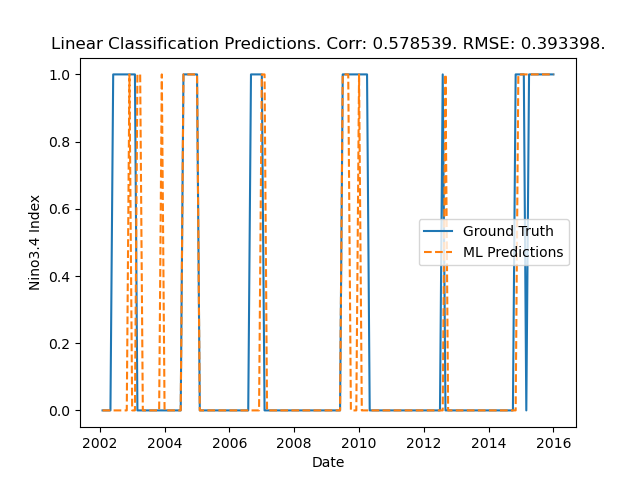
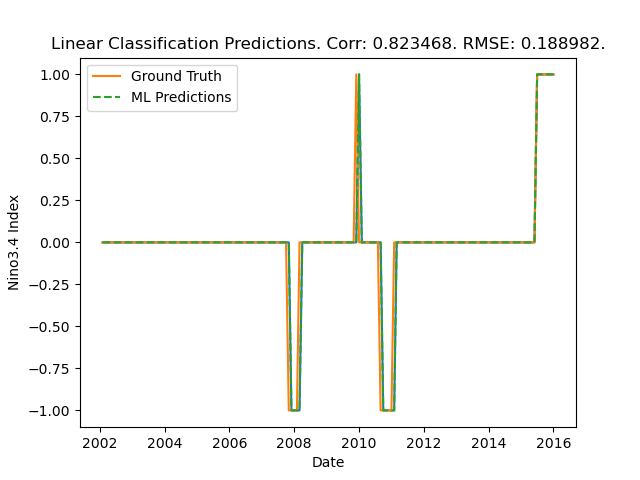
allow testing to output predictions only without comparison without ground truth.

diff --git a/test.py b/test.py
@@ -14,38 +14,87 @@ from sklearn import linear_model
 import pandas as pd
 import numpy as np
 
+def proper_mon(m):
+    if m<10:
+        mon = '0'+str(int(m))
+    else:
+        mon = str(int(m))
+    return mon
 
+def get_date_str(start,end,lead):
+    start = start.split('-')
+    end = end.split('-')
+    start_y,start_m = int(start[0]), int(start[1])
+    start_m1= int(start_m)
+    end_y, end_m = int(end[0]), int(end[1])
+    months = int((end_y - start_y)*12 + (end_m - start_m))
+    dates = []
+    start_m += lead
+    if start_m>12:
+        start_y += int(start_m/12)
+        start_m = start_m%12
+    
+    dates.append(str(start_y)+'-'+proper_mon(start_m)+'-01')
+    for i in range(start_m1+lead+1,start_m1+months+lead+1):
+        start_m += 1
+        if start_m>12:
+            start_y += 1
+            start_m -= 12
+        
+        dates.append(str(start_y)+'-'+proper_mon(start_m)+'-01')
+    return dates
 
+def plot_and_write(dates,pred,name,lead):
+    dates1 = []
+    for i in dates:
+        dates1.append(np.datetime64(i))
+    fname = './results/'+name+'_Nino34index_prediction_leadtime'+str(lead)+'.txt'
+    f = open(fname,'w')
+    for i,j in zip(dates,pred):
+        f.write(str(i)+'   '+str(j)+'\n')
+    f.close()
+    series = pd.Series(pred, index=pd.to_datetime(dates1))
+    plt.plot(series)
+    plt.xlabel('Datetime')
+    plt.ylabel('Nino 3.4 Index')
+    plt.title('Predicted Nino3.4 Index with leadtime = '+str(lead))
+    if not os.path.isdir("./results/"):
+        os.mkdir('./results')
+    plt.savefig('./results/'+name+'_forecast.png')
+    
 
 
 if __name__=='__main__':
-    
     opt=Test_options().parse()
     opt.startdate = strTodate(opt.startdate)
     opt.enddate = strTodate(opt.enddate)
     opt.test_start = strTodate(opt.test_start)
     opt.test_end = strTodate(opt.test_end)
+    dates = get_date_str(opt.test_start, opt.test_end , opt.leadtime)
     if '.' in opt.name:
         fname = opt.name[:opt.name.index('.')]
     else:
         fname = opt.name
     if opt.model=='cnn':
+        dates = dates[1:]
         test_predictors, test_predictands = assemble_predictors_predictands(opt)
         test_dataset = ENSODataset(test_predictors, test_predictands)
         testloader = DataLoader(test_dataset, batch_size=opt.batch_size)
         pred_CNN=cnn_predict('./checkpoints/'+opt.name,testloader)
+        
         if opt.classification:
             pred_CNN = classify(pred_CNN,threshold= opt.threshold)
             test_predictands=classify_pd(test_predictands,threshold= opt.threshold)
             experiment_name = 'CNN Classification'
         else:
             experiment_name = 'CNN Regression'
-        corr, _ = pearsonr(test_predictands, pred_CNN)
-        rmse = mean_squared_error(test_predictands, pred_CNN) ** 0.5
-        
-        
-        plot_nino_time_series(test_predictands, pred_CNN, '{} Predictions. Corr: {:3f}. RMSE: {:3f}.'.format(experiment_name,
+        plot_and_write(dates,pred_CNN,fname,opt.leadtime)
+        if opt.compare_ground_truth:
+            corr, _ = pearsonr(test_predictands, pred_CNN)
+            rmse = mean_squared_error(test_predictands, pred_CNN) ** 0.5
+            plot_nino_time_series(test_predictands, pred_CNN, '{} Predictions. Corr: {:3f}. RMSE: {:3f}.'.format(experiment_name,
                                                                       corr, rmse),'./results/'+fname)
+        
     elif opt.model == 'linear_regression':
         x_train,y_train=assemble_basic_predictors_predictands(opt,train=True)
         opt.startdate=opt.test_start
@@ -60,9 +109,11 @@ if __name__=='__main__':
             experiment_name = 'Linear Classification'
         else:
             experiment_name = 'Linear Regression'
-        corr, _ = pearsonr(y_test, pred_reg)
-        rmse = mean_squared_error(y_test, pred_reg) ** 0.5
-        plot_nino_time_series(y_test, pred_reg, '{} Predictions. Corr: {:3f}. RMSE: {:3f}.'.format(experiment_name,
+        plot_and_write(dates,pred_reg,fname,opt.leadtime)
+        if opt.compare_ground_truth:
+            corr, _ = pearsonr(y_test, pred_reg)
+            rmse = mean_squared_error(y_test, pred_reg) ** 0.5
+            plot_nino_time_series(y_test, pred_reg, '{} Predictions. Corr: {:3f}. RMSE: {:3f}.'.format(experiment_name,
                                                                       corr, rmse),'./results/'+fname)
         
         

diff --git a/options/reforecast_options.py b/options/reforecast_options.py
@@ -14,12 +14,12 @@ class Reforecast_options():
         parser.add_argument('--num_input_time_steps', type=int, default=1, help='the number of input time steps in the predictor')
         parser.add_argument('--startdate',required=True,help='start date of data as yyyy-mm-dd')
         parser.add_argument('--enddate',required=True,help='end date of data as yyyy-mm-dd')
-        parser.add_argument('--pca',type=bool,default=False,help='use pca')
+        parser.add_argument('--pca',action='store_true',help='use pca')
         parser.add_argument('--n_components',type=int, default=32, help='the number of components to use for PCA')
         parser.add_argument('--dataset', default='observations', help="observations | CNRM | MPI")
         parser.add_argument('--data_format',default='spatial', help = "'spatial' or 'flatten'. 'spatial' preserves the lat/lon dimensions and returns an array of shape (num_samples, num_input_time_steps, lat, lon).  'flatten' returns an array of shape (num_samples, num_input_time_steps*lat*lon)") 
         parser.add_argument('--batch_size',type=int, default=10, help='training batch size')
-        parser.add_argument('--classification', type=bool, default=False, help='use classification')
+        parser.add_argument('--classification', action='store_true', help='use classification')
         parser.add_argument('--threshold', type=float, default=1.5, help='threshold of Nino 3.4 index as El Nino')
         parser.add_argument('--test_start',default='',help='test start date only for linear regression')
         parser.add_argument('--test_end',default='',help='test end date only for linear regression')
@@ -29,7 +29,7 @@ class Reforecast_options():
         parser.add_argument('--ref', type=float, default = 299.0487,help='reference global sst in K')
         parser.add_argument('--variable_name', default='', help='variable name of model data')
         parser.add_argument('--variable_name_ref', default='unknown_local_param_34_128', help='variable name of reforecast data')
-        
+        parser.add_argument('--compare_ground_truth', action='store_true', help='whether compare the prediction with ground truth.')
         
         
         self.parser=parser

diff --git a/options/test_options.py b/options/test_options.py
@@ -14,7 +14,7 @@ class Test_options():
         parser.add_argument('--num_input_time_steps', type=int, default=1, help='the number of input time steps in the predictor')
         parser.add_argument('--startdate',required=True,help='start date of data as yyyy-mm-dd')
         parser.add_argument('--enddate',required=True,help='end date of data as yyyy-mm-dd')
-        parser.add_argument('--pca',type=bool,default=False,help='use pca')
+        parser.add_argument('--pca',action='store_true',help='use pca')
         parser.add_argument('--n_components',type=int, default=32, help='the number of components to use for PCA')
         parser.add_argument('--dataset', default='observations', help="observations | CNRM | MPI. Training dataset for linear regression.")
         parser.add_argument('--data_format',default='spatial', help = "'spatial' or 'flatten'. 'spatial' preserves the lat/lon dimensions and returns an array of shape (num_samples, num_input_time_steps, lat, lon).  'flatten' returns an array of shape (num_samples, num_input_time_steps*lat*lon)") 
@@ -27,6 +27,7 @@ class Test_options():
         parser.add_argument('--lon_slice',default=None, help='the slice of longitudes to use')
         parser.add_argument('--variable_name', default='', help='variable name of test data. For linear regression, it is the training data.')
         parser.add_argument('--variable_name_ref', default='sst', help='variable name of test data for linear regression.')
+        parser.add_argument('--compare_ground_truth', action='store_true', help='whether compare the prediction with ground truth.')
         
         
         self.parser=parser

diff --git a/options/train_options.py b/options/train_options.py
@@ -14,7 +14,7 @@ class Training_options():
         parser.add_argument('--startdate',type=str,required=True,help='start date of data as yyyy-mm-dd')
         parser.add_argument('--enddate',type=str,required=True,help='end date of data as yyyy-mm-dd')
         parser.add_argument('--instrument_data',default='', help='path to the instrumental data')
-        parser.add_argument('--pca',type=bool,default=False,help='end date of data as yyyy-mm-dd')
+        parser.add_argument('--pca',action='store_true',help='end date of data as yyyy-mm-dd')
         parser.add_argument('--n_components',type=int, default=32, help='the number of components to use for PCA')
         parser.add_argument('--dataset', default='observations', help="observations | CNRM | MPI")
         parser.add_argument('--data_format',default='spatial', help = "'spatial' or 'flatten'. 'spatial' preserves the lat/lon dimensions and returns an array of shape (num_samples, num_input_time_steps, lat, lon).  'flatten' returns an array of shape (num_samples, num_input_time_steps*lat*lon)") 
@@ -23,7 +23,8 @@ class Training_options():
         parser.add_argument('--batch_size',type=int, default=10, help='training batch size')
         parser.add_argument('--lr', type=float, default=0.0001, help='learning rate')
         parser.add_argument('--variable_name', default='', help='the name of variable in the .nc data file.')
-
+        parser.add_argument('--compare_ground_truth',action='store_true', help='whether compare the prediction with ground truth.')
+        
         self.parser=parser
     def parse(self):
         return self.parser.parse_args()

diff --git a/create_dataset.py b/create_dataset.py
@@ -138,8 +138,11 @@ def assemble_basic_predictors_predictands(opt, train=False):
                         pd.DateOffset(months=lead_time)
     end_date_plus_lead = pd.to_datetime(end_date) + \
                       pd.DateOffset(months=lead_time)
-    y = load_enso_indices(opt.instrument_data)[slice(start_date_plus_lead, 
+    if opt.compare_ground_truth:
+      y = load_enso_indices(opt.instrument_data)[slice(start_date_plus_lead, 
                                 end_date_plus_lead)]
+    else:
+      y = np.array([0]*X.shape[0])
   
 ##  ds = xr.open_dataset(opt.dataroot)
 ##  sst = ds['sst'].sel(time=slice(start_date, end_date))
@@ -279,9 +282,11 @@ def assemble_predictors_predictands(opt,train=False):
                         pd.DateOffset(months=lead_time+num_input_time_steps-1)
   end_date_plus_lead = pd.to_datetime(end_date) + \
                       pd.DateOffset(months=lead_time)
-  if dataset == 'observations':
+  if dataset == 'observations' and opt.compare_ground_truth == True:
     y = load_enso_indices(opt.instrument_data)[slice(start_date_plus_lead, 
                                   end_date_plus_lead)]
+  elif not opt.compare_ground_truth:
+    y=np.array([0]*X.shape[0])
   else: #the data is from a GCM
     X = X.astype(np.float32)
     #The Nino3.4 Index is composed of three month rolling values

diff --git a/README.md b/README.md
@@ -1,14 +1,19 @@
 python train.py --dataroot "./datasets/CNRM_tas_anomalies_regridded.nc" --name test_cnn --epoch 2 --startdate 1980-01-01 --enddate 2101-12-31   --dataset CNRM
 
-python test.py --dataroot "./datasets/sst.mon.mean.trefadj.anom.1880to2018.nc" --instrument_data "./datasets/nino34.long.anom.data.txt" --name test_cnn.pt  --startdate 2000-01-01 --enddate 2005-12-31  --dataset observations
+python test.py --dataroot "./datasets/sst.mon.mean.trefadj.anom.1880to2018.nc" --instrument_data "./datasets/nino34.long.anom.data.txt" --name test_cnn.pt  --startdate "" --enddate ""  --test_start 2002-01-01 --test_end 2015-12-31 --dataset observations --compare_ground_truth
 
-python test.py --dataroot "./datasets/CNRM_tas_anomalies_regridded.nc" --dataroot1  "./datasets/sst.mon.mean.trefadj.anom.1880to2018.nc" --dataset CNRM --name linear_classification --startdate 1950-01-01 --enddate 2050-12-31 --instrument_data "./datasets/nino34.long.anom.data.txt" --test_start 2002-01-01 --test_end 2015-12-31  --model linear_regression --classification True
+python test.py --dataroot "./datasets/CNRM_tas_anomalies_regridded.nc" --dataroot1  "./datasets/sst.mon.mean.trefadj.anom.1880to2018.nc" --dataset CNRM --name linear_classification --startdate 1950-01-01 --enddate 2050-12-31 --instrument_data "./datasets/nino34.long.anom.data.txt" --test_start 2002-01-01 --test_end 2015-12-31  --model linear_regression --classification True --compare_ground_truth
 
-python test.py --dataroot "./datasets/sst.mon.mean.trefadj.anom.1880to2018.nc" --instrument_data "./datasets/nino34.long.anom.data.txt" --name NinoPrediction_leadtime2_timespan1850-01-01-2299-01-01.pt  --startdate "" --enddate ""  --test_start 2000-01-01 --test_end 2010-12-31 --dataset observations --classification True --leadtime 2 --num_input_time_steps 2
+python test.py --dataroot "./datasets/sst.mon.mean.trefadj.anom.1880to2018.nc" --instrument_data "./datasets/nino34.long.anom.data.txt" --name NinoPrediction_leadtime2_timespan1850-01-01-2299-01-01.pt  --startdate "" --enddate ""  --test_start 2000-01-01 --test_end 2010-12-31 --dataset observations --classification True --leadtime 2 --num_input_time_steps 2 --compare_ground_truth
 
-python reforecast.py --dataroot "./datasets/sst.mon.mean.trefadj.anom.1880to2018.nc" --instrument_data "./datasets/nino34.long.anom.data.txt" --name test_cnn.pt  --startdate "" --enddate "" --test_start 2015-01-01 --test_end 2018-12-31   --dataset observations  --leadtime 2 --reforecast_data reforecast.txt
+python reforecast.py --dataroot "./datasets/sst.mon.mean.trefadj.anom.1880to2018.nc" --instrument_data "./datasets/nino34.long.anom.data.txt" --name test_cnn.pt  --startdate "" --enddate "" --test_start 2015-01-01 --test_end 2018-12-31   --dataset observations  --leadtime 2 --reforecast_data reforecast.txt 
 
 python reforecast.py --dataroot "./datasets/CNRM_tas_anomalies_regridded.nc" --dataroot1  "./datasets/sst.mon.mean.trefadj.anom.1880to2018.nc" --instrument_data "./datasets/nino34.long.anom.data.txt" --dataset CNRM --name LR   --startdate 1980-01-01 --enddate 2030-12-31 --test_start 2015-01-01 --test_end 2018-12-31  --leadtime 2 --reforecast_data reforecast.txt --model linear_regression 
+
+python test.py --dataroot "./datasets/sst.mon.mean.trefadj.anom.1880to2018.nc" --instrument_data "" --name NinoPrediction_leadtime2_timespan1850-01-01-2299-01-01.pt  --startdate "" --enddate ""  --test_start 2000-01-01 --test_end 2010-12-31 --dataset observations  --leadtime 2 --num_input_time_steps 2 
+
+python test.py --dataroot "./datasets/CNRM_tas_anomalies_regridded.nc" --dataroot1  "./datasets/sst.mon.mean.trefadj.anom.1880to2018.nc" --dataset CNRM --name linear_classification --startdate 1950-01-01 --enddate 2050-12-31 --instrument_data "./datasets/nino34.long.anom.data.txt" --test_start 2002-01-01 --test_end 2015-12-31  --model linear_regression --classification True --compare_ground_truth
+
 
 # ENSO_forecast
 
